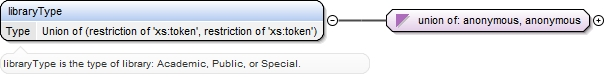
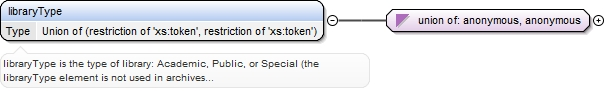
RSC Libraries and Archives schema and documentation change [MRB]

Changed region(s): [[0.0, 0.0, 1.0, 0.5714], [0.0, 0.7792, 0.505, 0.9091], [0.0, 0.6494, 0.5347, 0.7532]]

diff --git a/schema/documentation/RSC/index.html b/schema/documentation/RSC/index.html
@@ -650,16 +650,16 @@ var modelBoxes= new Array('model_record');
                                  <area alt="index.tmp#institutionType" href="index.html#institutionType" coords="182,87,357,131" />
                                  <area alt="index.tmp#group" href="index.html#group" coords="182,172,357,216" />
                                  <area alt="index.tmp#libraryType" href="index.html#libraryType" coords="182,257,520,301" />
-                                 <area alt="index.tmp#subGroup" href="index.html#subGroup" coords="182,342,357,386" />
-                                 <area alt="index.tmp#community" href="index.html#community" coords="182,441,287,485" />
-                                 <area alt="index.tmp#provCode" href="index.html#provCode" coords="182,540,357,584" />
-                                 <area alt="index.tmp#province" href="index.html#province" coords="182,639,357,683" />
-                                 <area alt="index.tmp#population" href="index.html#population" coords="182,738,287,782" />
-                                 <area alt="index.tmp#startDate" href="index.html#startDate" coords="182,837,287,881" />
-                                 <area alt="index.tmp#url" href="index.html#url" coords="182,936,294,980" />
-                                 <area alt="index.tmp#latitude" href="index.html#latitude" coords="182,1035,296,1079" />
-                                 <area alt="index.tmp#longitude" href="index.html#longitude" coords="182,1134,296,1178" />
-                                 <area alt="index.tmp#latLng" href="index.html#latLng" coords="182,1233,287,1277" /></map></div>
+                                 <area alt="index.tmp#subGroup" href="index.html#subGroup" coords="182,356,357,400" />
+                                 <area alt="index.tmp#community" href="index.html#community" coords="182,455,287,499" />
+                                 <area alt="index.tmp#provCode" href="index.html#provCode" coords="182,554,357,598" />
+                                 <area alt="index.tmp#province" href="index.html#province" coords="182,653,357,697" />
+                                 <area alt="index.tmp#population" href="index.html#population" coords="182,752,287,796" />
+                                 <area alt="index.tmp#startDate" href="index.html#startDate" coords="182,851,287,895" />
+                                 <area alt="index.tmp#url" href="index.html#url" coords="182,950,294,994" />
+                                 <area alt="index.tmp#latitude" href="index.html#latitude" coords="182,1049,296,1093" />
+                                 <area alt="index.tmp#longitude" href="index.html#longitude" coords="182,1148,296,1192" />
+                                 <area alt="index.tmp#latLng" href="index.html#latLng" coords="182,1247,287,1291" /></map></div>
                         </td>
                      </tr>
                      <tr>
@@ -1201,7 +1201,7 @@ var modelBoxes= new Array('model_record');
                                  <table style="table-layout:fixed;white-space:pre-wrap;white-space:-moz-pre-wrap;white-space:-pre-wrap;white-space: -o-pre-wrap;word-wrap: break-word;_white-space:pre;" class="preWrapContainer">
                                     <tr>
                                        <td width="100%"><pre><span class="tT">libraryType is the type of library: Academic, Public,</span><span class="tI">
-</span><span class="tT">or Special.</span></pre></td>
+</span><span class="tT">or Special (the libraryType element is not used in archives records).</span></pre></td>
                                     </tr>
                                  </table>
                               </div>
@@ -1265,7 +1265,7 @@ var modelBoxes= new Array('model_record');
                                  <tr>
                                     <td width="100%"><pre><span class="tEl">&lt;xs:element</span><span class="tAN"> name=</span><span class="tAV">"libraryType"</span><span class="tEl">&gt;</span><span class="tI">
   </span><span class="tEl">&lt;xs:annotation</span><span class="tEl">&gt;</span><span class="tI">
-    </span><span class="tEl">&lt;xs:documentation</span><span class="tEl">&gt;</span><span class="tT" style="white-space:normal">libraryType is the type of library: Academic, Public, or Special.</span><span class="tEl">&lt;/xs:documentation&gt;</span><span class="tI">
+    </span><span class="tEl">&lt;xs:documentation</span><span class="tEl">&gt;</span><span class="tT" style="white-space:normal">libraryType is the type of library: Academic, Public, or Special (the libraryType element is not used in archives records).</span><span class="tEl">&lt;/xs:documentation&gt;</span><span class="tI">
   </span><span class="tEl">&lt;/xs:annotation&gt;</span><span class="tI">
   </span><span class="tEl">&lt;xs:simpleType</span><span class="tEl">&gt;</span><span class="tI">
     </span><span class="tEl">&lt;xs:union</span><span class="tEl">&gt;</span><span class="tI">
